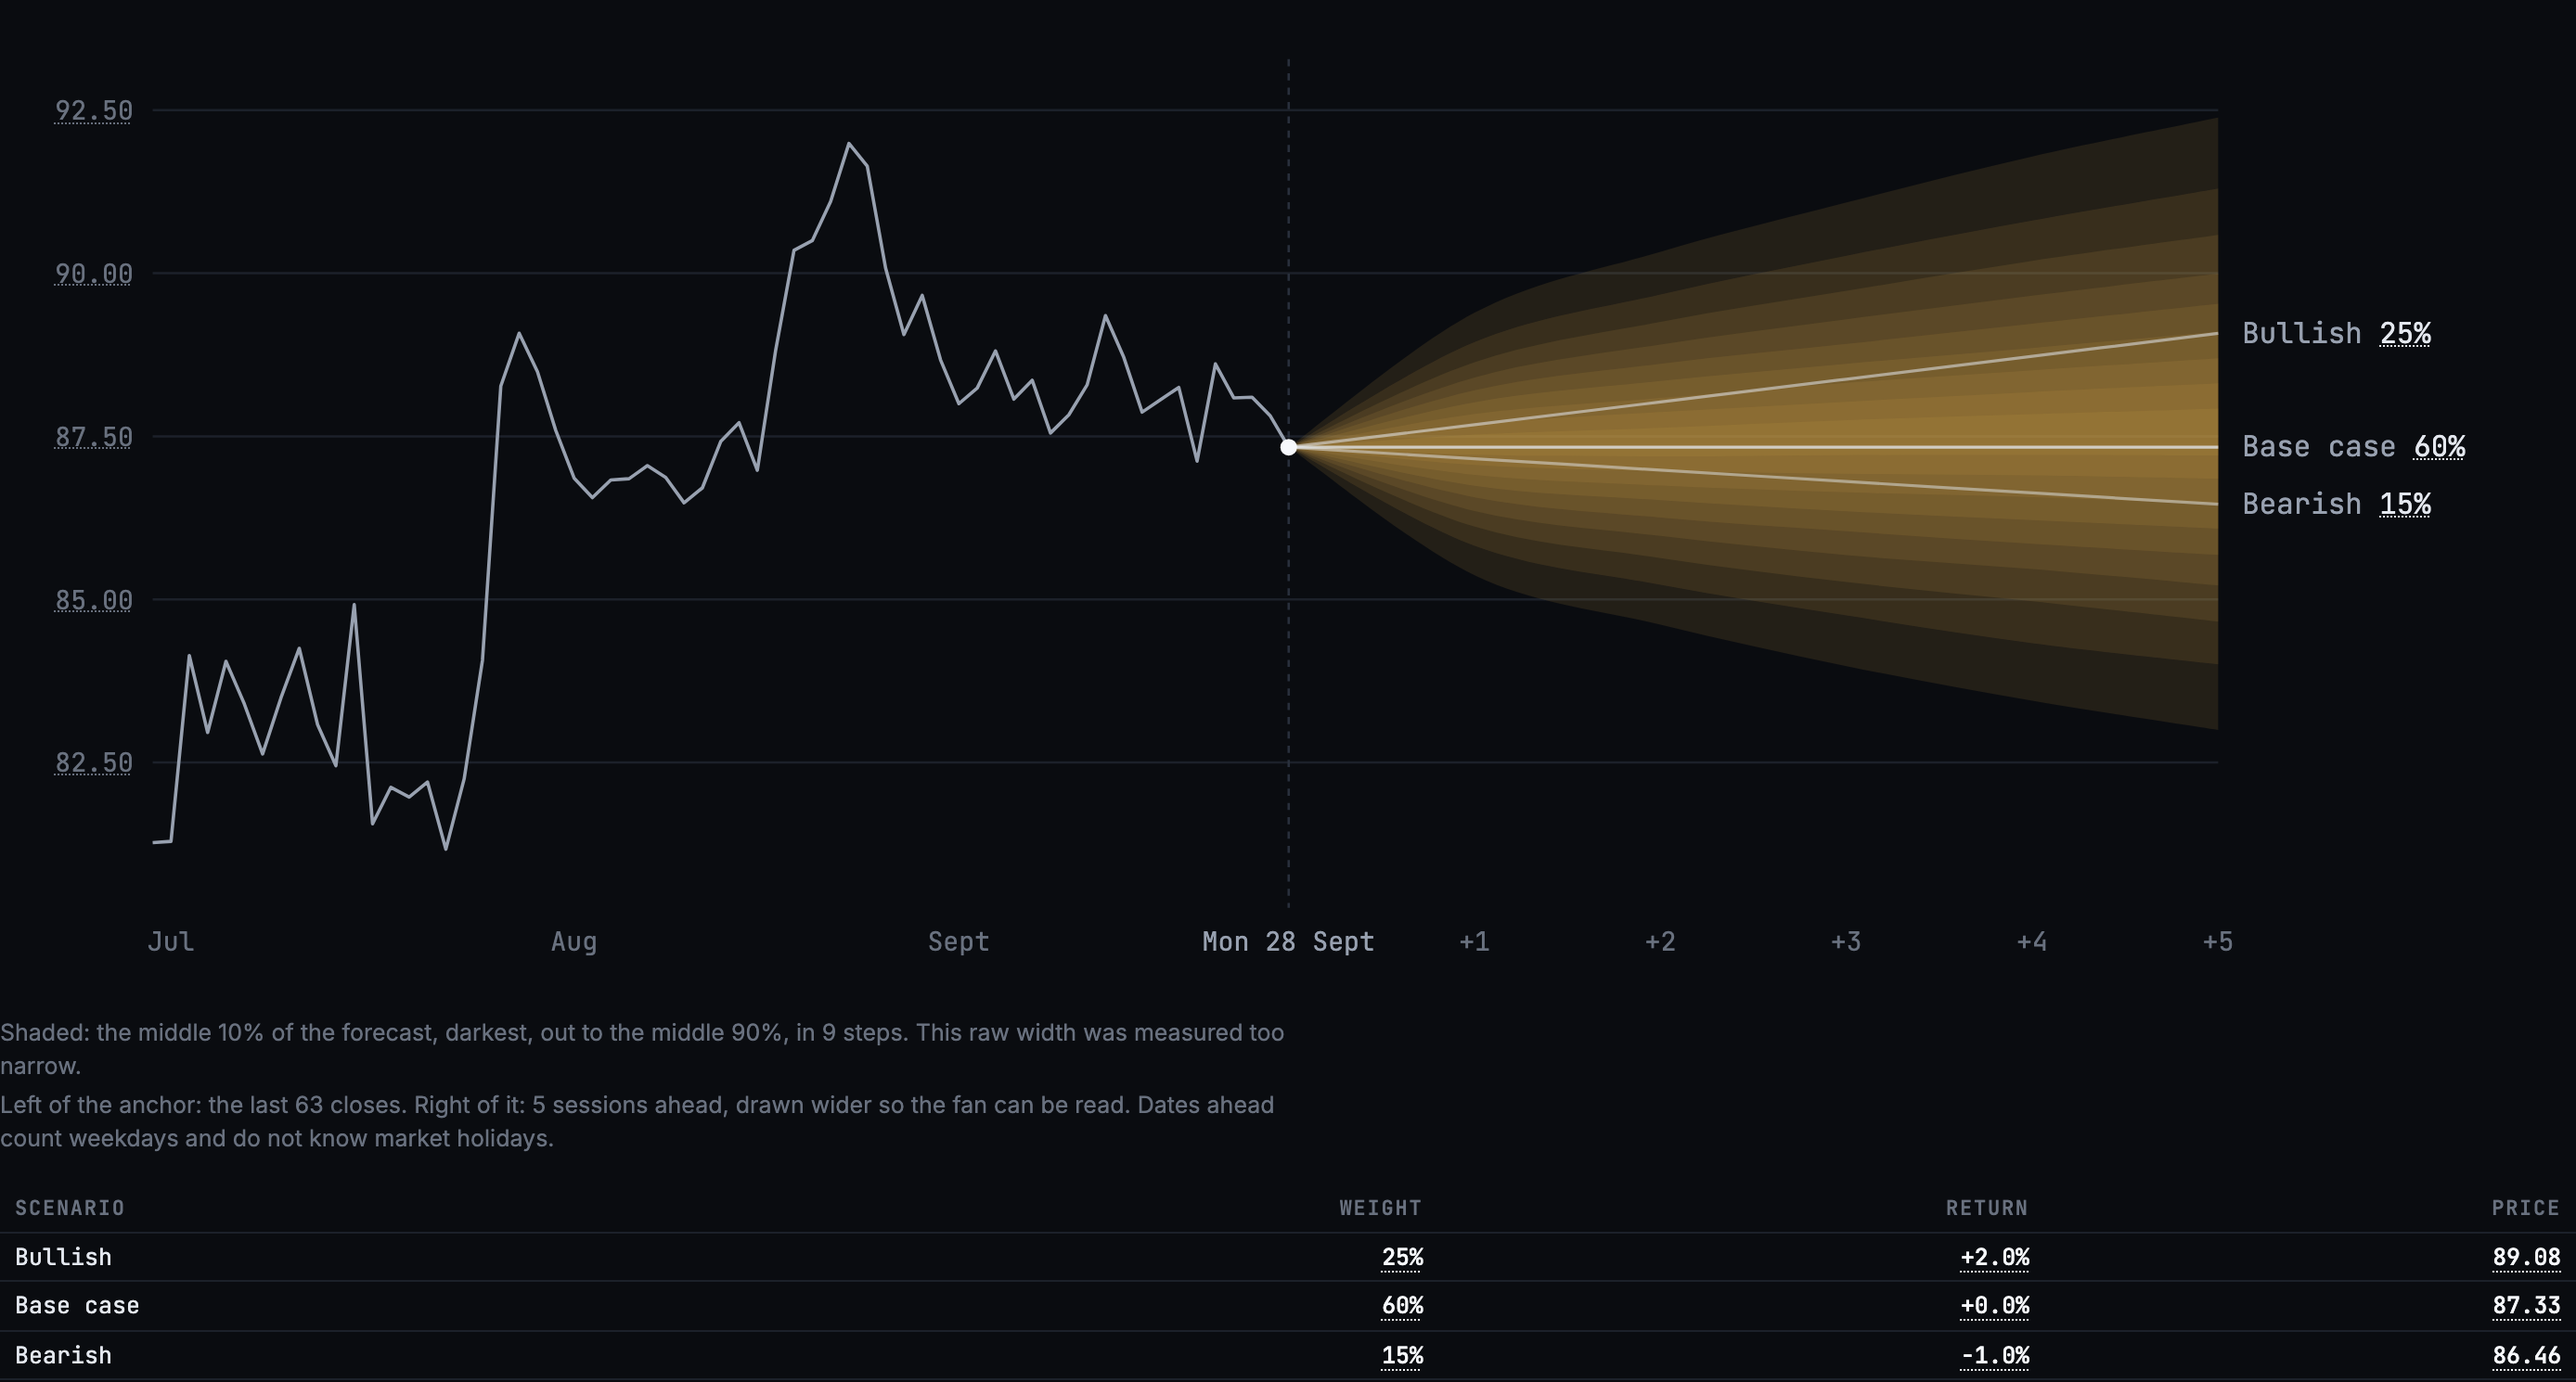
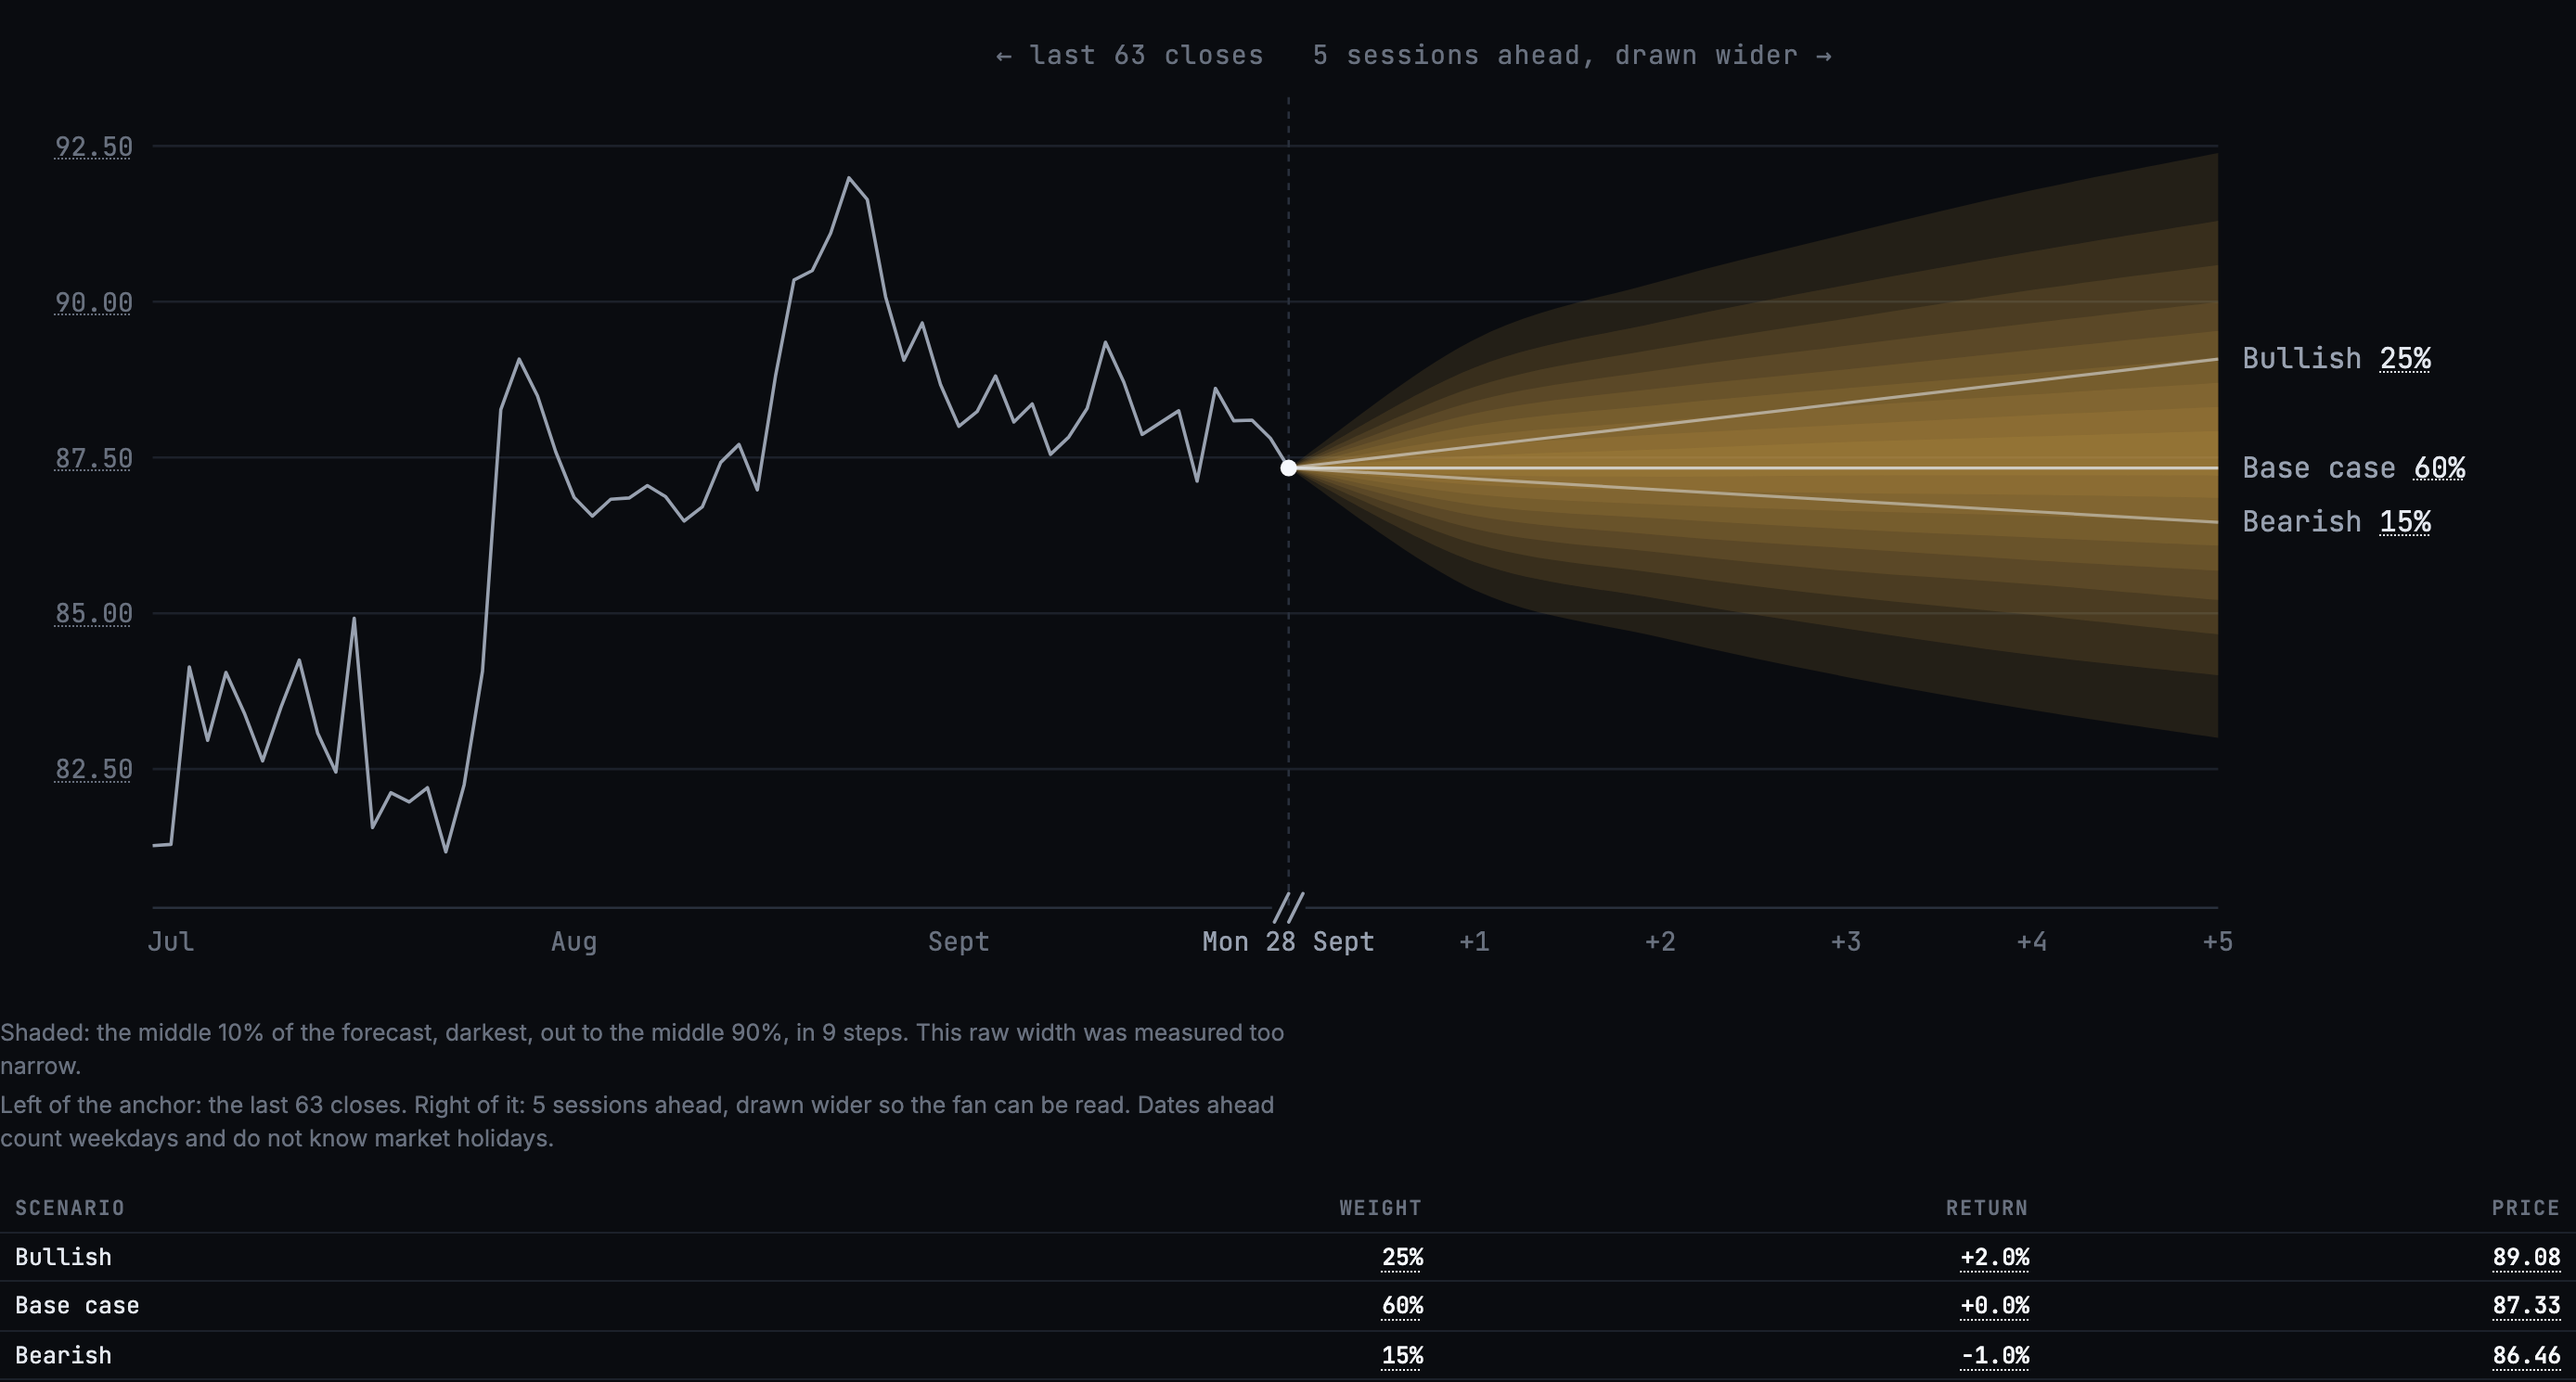
Break the fan's axis at the anchor where the scale changes

diff --git a/ui/assets/js/ui/analyse-fan.js b/ui/assets/js/ui/analyse-fan.js
@@ -34,7 +34,8 @@ import { prefersReducedMotion } from "../lib/motion.js";
 const SVG = "http://www.w3.org/2000/svg";
 const W = 1080;
 const H = 420;
-const PAD = { top: 24, right: 150, bottom: 40, left: 64 };
+// The top holds the two scale captions, one either side of the anchor.
+const PAD = { top: 40, right: 150, bottom: 40, left: 64 };
 // Of the plot's width, the share the history side gets when there is history.
 const HISTORY_SHARE = 0.55;
 const OPEN_MS = 1100;
@@ -293,6 +294,7 @@ export function renderFan(host, result, { opening = true } = {}) {
 
   // The anchor: the one measured price the fan opens from.
   svg.append(svgNode("line", { class: "anl-anchor", x1: today, x2: today, y1: PAD.top, y2: H - PAD.bottom }));
+  if (history.length > 1) svg.append(scaleBreak({ x0, x1, today, h, closes: history.length }));
   svg.append(svgNode("circle", { class: "anl-spot", cx: today, cy: y(result.spot), r: 3.5 }));
   const anchorLabel = svgNode("text", { class: "anl-xtick anl-xtick--anchor", x: today, y: base });
   anchorLabel.textContent = result.anchor ? spoken(result.anchor) : "anchor";
@@ -328,6 +330,46 @@ export function renderFan(host, result, { opening = true } = {}) {
 
   if (opening) open(reveal, labels, { from: today, width: W - today + 1 });
   return svg;
+}
+
+/** The change of scale, drawn where it happens.
+
+    The axis is broken at the anchor — the baseline stops short on each side and
+    two slanted strokes cross the gap, the mark a reader already knows means "the
+    scale is not continuous here" — and each side is captioned with what it shows.
+    Said on the chart itself, because a reader looks at the fan before the legend
+    and would otherwise read a session on the right as the same width as one on
+    the left. */
+function scaleBreak({ x0, x1, today, h, closes }) {
+  const group = svgNode("g", { class: "anl-break" });
+  const base = H - PAD.bottom;
+  const gap = 7;
+  group.append(
+    svgNode("line", { class: "anl-baseline", x1: x0, x2: today - gap, y1: base, y2: base }),
+    svgNode("line", { class: "anl-baseline", x1: today + gap, x2: x1, y1: base, y2: base }),
+  );
+  for (const dx of [-3, 3]) {
+    group.append(svgNode("line", {
+      class: "anl-break-mark",
+      x1: today + dx - 3, x2: today + dx + 3, y1: base + 6, y2: base - 6,
+    }));
+  }
+  const caption = (text, x, anchor, why) => {
+    const node = svgNode("text", { class: "anl-scale-caption", x, y: PAD.top - 14, "text-anchor": anchor });
+    node.textContent = text;
+    node.dataset.chrome = why;
+    return node;
+  };
+  group.append(
+    caption(`← last ${closes} closes`, today - 10, "end", "how many closes the history side shows"),
+    caption(
+      `${h} ${h === 1 ? "session" : "sessions"} ahead, drawn wider →`,
+      today + 10,
+      "start",
+      "how many sessions the forecast side shows, and that its scale is wider",
+    ),
+  );
+  return group;
 }
 
 /** Names and weights at the end of each curve, pushed apart where they would

diff --git a/ui/assets/styles/analyse.css b/ui/assets/styles/analyse.css
@@ -174,6 +174,10 @@ body > .masthead,
 .anl-xtick--anchor { fill: var(--ink-2); }
 .anl-history { fill: none; stroke: var(--ink-2); stroke-width: 1.4; stroke-linejoin: round; }
 .anl-anchor { stroke: var(--rule-2); stroke-width: 1; stroke-dasharray: 3 3; }
+/* The broken axis at the anchor, and the caption on each side of it. */
+.anl-baseline { stroke: var(--rule-2); stroke-width: 1; }
+.anl-break-mark { stroke: var(--ink-2); stroke-width: 1.4; stroke-linecap: round; }
+.anl-scale-caption { fill: var(--ink-3); font-family: var(--font-mono); font-size: 11px; letter-spacing: .04em; }
 .anl-spot { fill: var(--ink-num); }
 /* The scenarios are the reasoning, drawn thin and neutral over the bands; the
    bands are the claim, and carry the marking's colour. */
